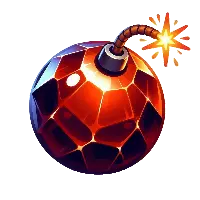
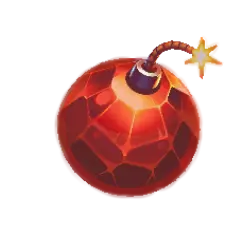
massive visual update

diff --git a/components/Game/Grid.vue b/components/Game/Grid.vue
@@ -1,32 +1,31 @@
 <template>
-  <div class="bg-gray-600 max-w-[500px] h-fit w-full rounded-lg p-1 shadow-xl">
+  <div class="max-w-[500px] h-fit w-full p-1">
     <div
       ref="gridRef"
       v-if="pause"
-      class="flex items-center justify-center text-gray-300 aspect-square bg-gray-600 cursor-default text-3xl pb-2"
+      class="flex items-center justify-center text-gray-300 aspect-square cursor-default text-3xl pb-2"
     >
       pause
     </div>
     <div
       v-else
       ref="gridRef"
-      class="relative grid aspect-square bg-gray-600 overflow-hidden"
+      class="relative grid aspect-square duration-200"
       :class="{ 'saturate-50 opacity-50': pause }"
-      :style="{
-        'grid-template-columns': `repeat(${size}, minmax(0, 1fr))`,
-      }"
+      :style="{ 'grid-template-columns': `repeat(${size}, minmax(0, 1fr))` }"
     >
-      <div
+      <img :src="gridImg" class="rounded-2xl blur-md absolute opacity-50" />
+      <img
         v-for="i in size ** 2"
         :key="i"
-        class="border-[3px] border-gray-600 rounded-md bg-gray-700"
+        :src="cell"
         draggable="false"
         @dragstart.prevent
-      ></div>
+      />
       <div
         v-for="(gem, id) in gemsById"
         :key="id"
-        class="absolute group"
+        class="absolute group w-full"
         :ref="(element) => (gem.element = element)"
         @mousedown="onMouseDown(id)"
         draggable="false"
@@ -36,7 +35,6 @@
           top: gem.y - cellSize / 2 + 'px',
           width: cellSize + 'px',
           height: cellSize + 'px',
-          padding: cellSize * 0.1 + 'px',
         }"
       >
         <div v-for="(img, i) in IMG_MAP" :key="`gem-${img.color}-${id}-${i}`">
@@ -46,6 +44,7 @@
             class="ease-out-in select-none"
             :class="[
               {
+                'scale-1': !gem.cascading && id !== activeGemId,
                 'group-hover:brightness-150 group-hover:scale-[1.15] group-hover:rotate-[2deg]':
                   !activeGemId &&
                   !gem.cascading &&
@@ -53,8 +52,7 @@
                   (arc !== ARC.CRYSTAL || gem.color !== GEMS.BLUE),
                 'scale-[0.8] brightness-150': id === activeGemId,
                 'scale-[0.9] saturate-[0.4]': gem.cascading,
-                'scale-[0.95]': !gem.cascading && id !== activeGemId,
-                'scale-[1.1] opacity-0 rotate-[10deg]': gem.removing,
+                'scale-[1.2] opacity-0 rotate-[10deg]': gem.removing,
               },
             ]"
             :style="{
@@ -65,25 +63,26 @@
         </div>
       </div>
     </div>
-    <div class="text-gray-300 text-center">{{ formattedTime }}</div>
+    <div class="pt-10 text-gray-400 text-center">{{ formattedTime }}</div>
   </div>
 </template>
 <script setup>
 /** x and y are always pixel coordinates within grid, grid itself uses row / col as coordinates and flat indices */
-import anime from "animejs"
 import newId from "~/utils/newId"
 import debounce from "~/utils/debounce"
 
-import yellow from "~/assets/yellow.webp"
-import blue from "~/assets/blue.webp"
-import green from "~/assets/green.webp"
-import red from "~/assets/red.webp"
-import purple from "~/assets/purple.webp"
-import arrowhead from "~/assets/arrowhead.webp"
-import shard from "~/assets/shard.webp"
-import toxin from "~/assets/toxin.webp"
-import bomb from "~/assets/bomb.webp"
-import dice from "~/assets/dice.webp"
+import gridImg from "~/assets/grid_warm.png"
+import cell from "~/assets/cell.png"
+import yellow from "~/assets/yellow.png"
+import blue from "~/assets/blue.png"
+import green from "~/assets/green.png"
+import red from "~/assets/red.png"
+import purple from "~/assets/purple.png"
+import arrowhead from "~/assets/arrowhead.png"
+import shard from "~/assets/shard.png"
+import poison from "~/assets/poison.png"
+import bomb from "~/assets/bomb.png"
+import dice from "~/assets/dice.png"
 
 import { MIN_MATCH, MAX_MATCH_COUNT, ARC, GEMS } from "~/components/constants"
 const GRID_SIZE = 8
@@ -127,7 +126,7 @@ let isTabActive = true
 const IMG_MAP = [
   { color: GEMS.YELLOW, src: props.arc === ARC.AIM ? arrowhead : yellow },
   { color: GEMS.BLUE, src: props.arc === ARC.CRYSTAL ? shard : blue },
-  { color: GEMS.GREEN, src: props.arc === ARC.MIASMA ? toxin : green },
+  { color: GEMS.GREEN, src: props.arc === ARC.MIASMA ? poison : green },
   { color: GEMS.RED, src: props.arc === ARC.BOOM ? bomb : red },
   { color: GEMS.PURPLE, src: props.arc === ARC.GAMBLER ? dice : purple },
 ]

diff --git a/app.vue b/app.vue
@@ -1,31 +1,39 @@
 <template>
-  <div class="flex justify-center pt-6 h-screen bg-gray-500 bg-circles">
+  <div
+    class="flex justify-center h-screen bg-circles"
+    style="background-color: #31332d"
+  >
     <div class="flex flex-col gap-8 w-full pb-8">
-      <div class="flex justify-center gap-2 text-gray-300">
-        <button
-          @click="fileSave('gems.json', getStorage())"
-          class="bg-gray-600 rounded-md w-24 pb-1 hover:bg-gray-700"
-        >
-          save
-        </button>
-        <button
-          @click="onFileLoad"
-          class="bg-gray-600 rounded-md w-24 pb-1 hover:bg-gray-700"
-        >
-          load
-        </button>
-        <button
-          @click="pause = !pause"
-          class="bg-gray-600 rounded-md w-24 pb-1 hover:bg-gray-700"
-        >
-          {{ !pause ? "pause" : "continue" }}
-        </button>
-        <div
-          class="bg-gray-600 rounded-md w-[600px] px-2 pb-1 hover:bg-gray-700"
-        >
-          two: {{ two }} three: {{ three }} four: {{ four }} five:
-          {{ five }} six: {{ six }} seven: {{ seven }} eight+:
-          {{ eight }} shardCount: {{ shardCount }}
+      <div class="flex w-full justify-center absolute h-full">
+        <img :src="map_01" class="h-full" />
+      </div>
+      <div class="pt-4">
+        <div class="flex justify-center gap-2 text-green-300">
+          <button
+            @click="fileSave('gems.json', getStorage())"
+            class="bg-green-800 rounded-md w-24 pb-1 hover:bg-green-900 saturate-[0.2]"
+          >
+            save
+          </button>
+          <button
+            @click="onFileLoad"
+            class="bg-green-800 rounded-md w-24 pb-1 hover:bg-green-900 saturate-[0.2]"
+          >
+            load
+          </button>
+          <button
+            @click="pause = !pause"
+            class="bg-green-800 rounded-md w-24 pb-1 hover:bg-green-900 saturate-[0.2]"
+          >
+            {{ !pause ? "pause" : "continue" }}
+          </button>
+          <div
+            class="bg-green-800 rounded-md w-[600px] px-2 pb-1 cursor-default saturate-[0.2]"
+          >
+            two: {{ two }} three: {{ three }} four: {{ four }} five:
+            {{ five }} six: {{ six }} seven: {{ seven }} eight+:
+            {{ eight }} shardCount: {{ shardCount }}
+          </div>
         </div>
       </div>
       <Game
@@ -43,6 +51,8 @@ import fileSave from "~/utils/fileSave"
 import fileLoad from "~/utils/fileLoad"
 import debounce from "~/utils/debounce"
 import timestamp from "~/utils/timestamp"
+import map_01 from "~/assets/map_01.webp"
+import { ARC } from "~/components/constants"
 
 const APP_LOCAL_STORAGE_KEY = "gems"
 const DEBOUNCE_DELAY = 300
@@ -51,7 +61,7 @@ const pause = ref(false)
 const pending = ref(true) // run game only after local storage is loaded
 
 const experience = ref(0)
-const arc = ref(null)
+const arc = ref(ARC.CRYSTAL)
 const two = ref(0)
 const three = ref(0)
 const four = ref(0)

diff --git a/components/Game/Game.vue b/components/Game/Game.vue
@@ -1,13 +1,13 @@
 <template>
   <div class="flex gap-4 w-full justify-center">
-    <GameDamageLog :damageLogs="damageLogs" :arc="arc" />
+    <!-- <GameDamageLog :damageLogs="damageLogs" :arc="arc" /> -->
     <GameGrid
       :pause="pause"
       :arc="arc"
       @match="onMatch"
       @shard-count="onShardCount"
     />
-    <div class="w-80"></div>
+    <!-- <div class="w-80"></div> -->
   </div>
 </template>
 <script setup>
